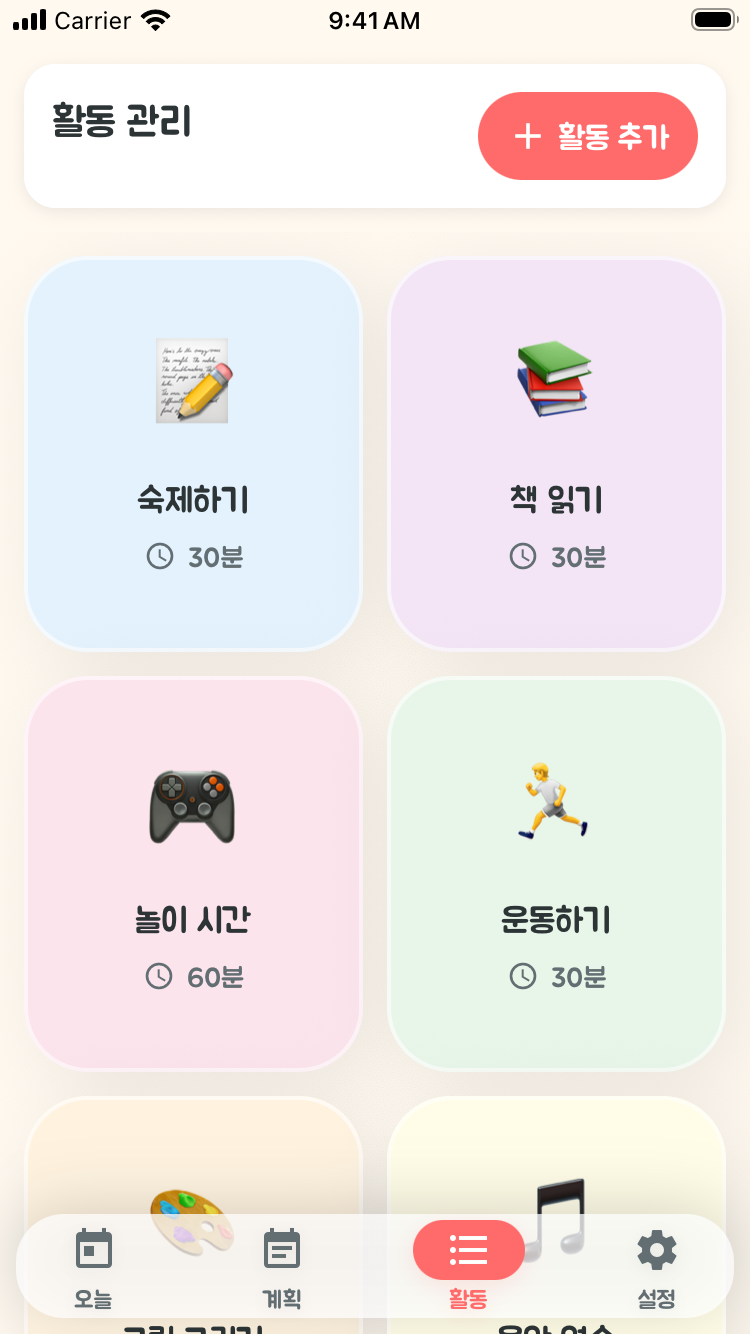
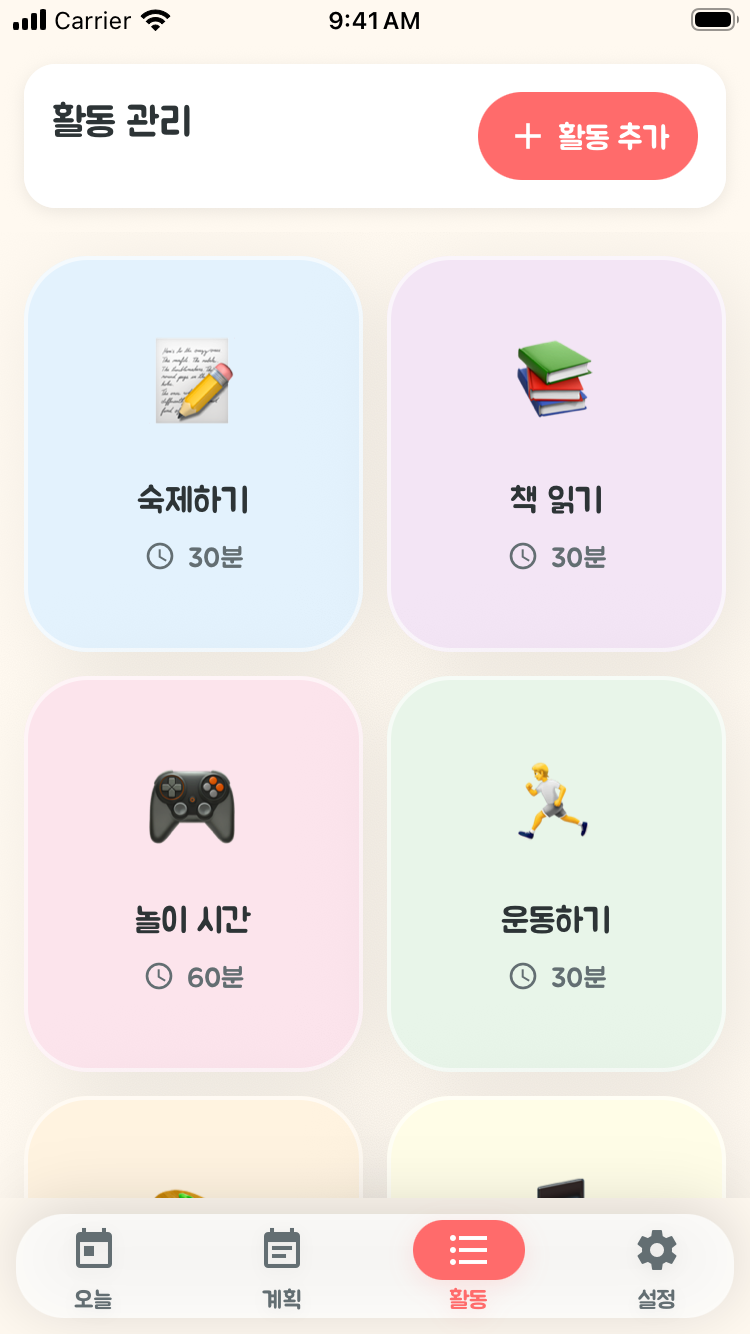
docs(w3): refresh SE Activity store frame (U-5 inset)

diff --git a/docs/store-week-w3/shots/se/README.md b/docs/store-week-w3/shots/se/README.md
@@ -15,3 +15,6 @@
 | 4 | w3-se-04-settings-reward.png | 설정 › 보상 약속 |
 | 5 | w3-se-05-weekly-promise.png | 주간 보상 약속 sheet |
 | 6 | w3-se-06-expansion.png | 보상 확장 (locked) |
+
+## Refresh 2026-11-04 (KST)
+- `w3-se-03-activity.png` re-captured after U-5 Activity inset (#30), tip #31 @ `0d4a3a1`, SE A3FB3EC7, `-initialTab activity -suppressWeeklyResult 1`, seed `single`. Other 5 frames unchanged.
